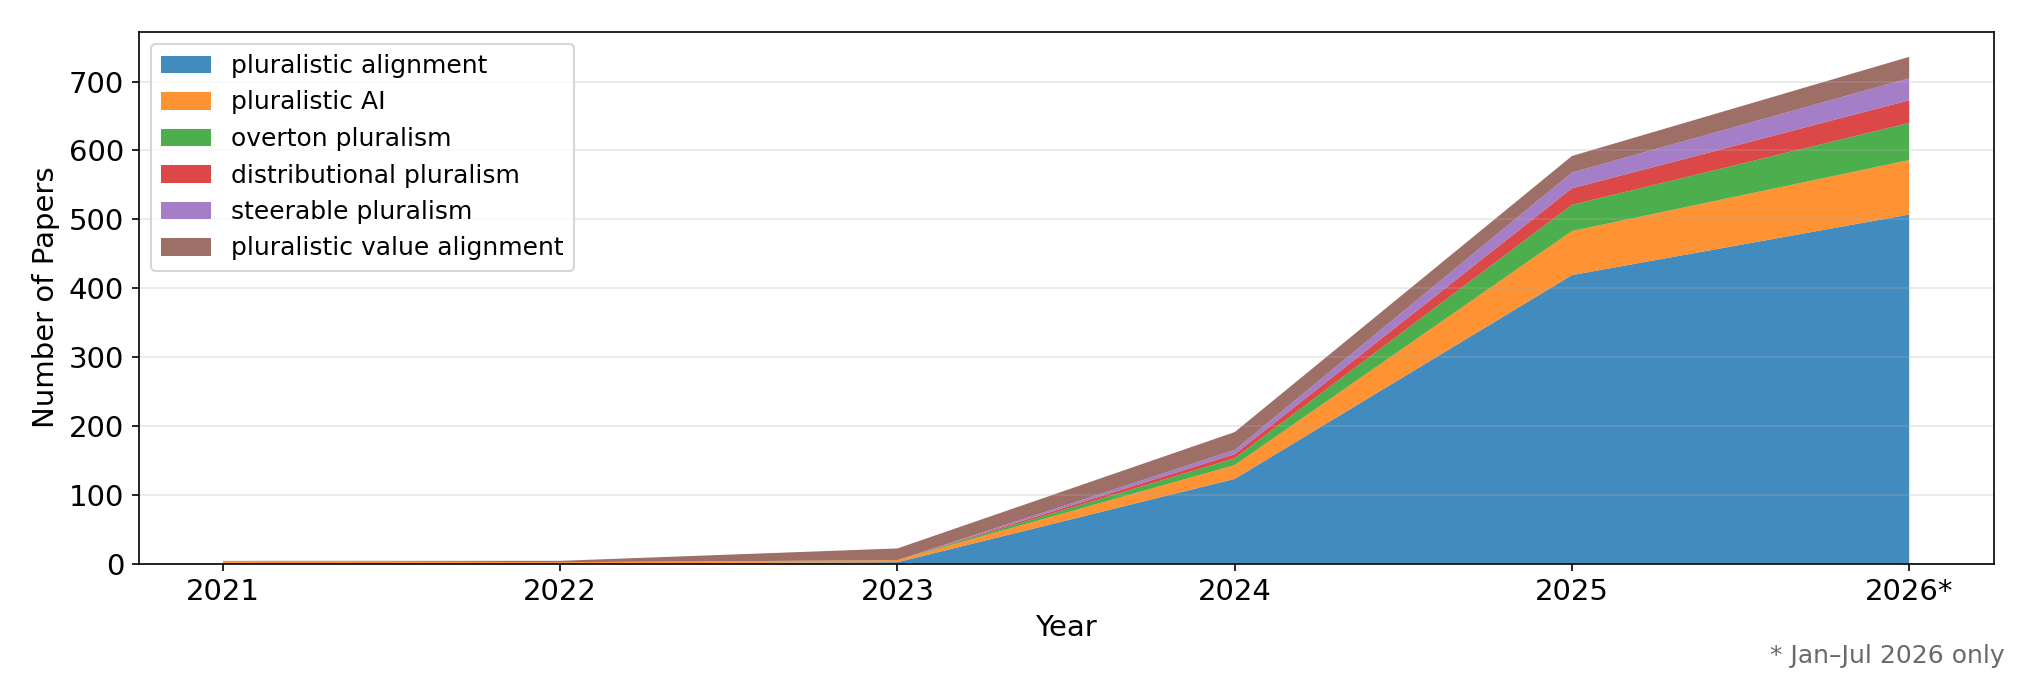
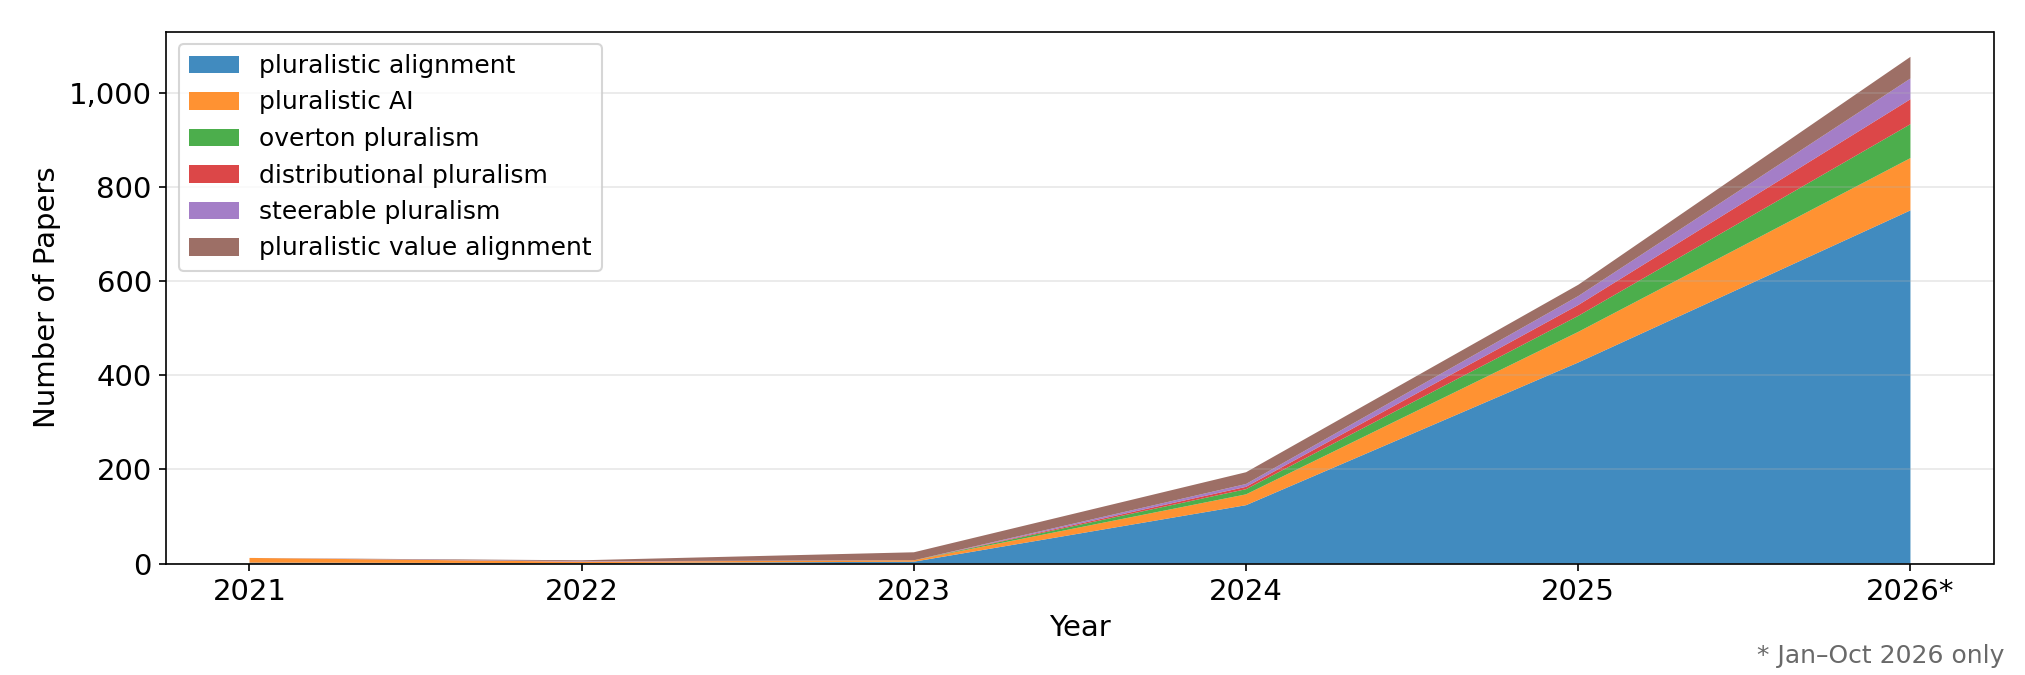
Refresh pluralistic alignment dataset through mid-October 2026
Reran the same 6 queries. 2026 now totals 1,076 through mid-October,
up from 592 for all of 2025. Figure footnote updated to Jan to Oct.

diff --git a/README.md b/README.md
@@ -104,8 +104,8 @@ python plot_trends.py data/results_by_term.csv \
 ### Included dataset
 
 `data/pluralistic_alignment_2021_2026.csv` contains counts for six pluralistic
-alignment search terms (2021–2026), last updated July 2026 (2026 figures are
-partial, through mid-July).
+alignment search terms, 2021 to 2026, last updated October 2026. The 2026
+figures are partial, through mid-October.
 
 ![Pluralistic alignment Google Scholar counts](figures/pluralistic_alignment_2021_2026.png)
 
